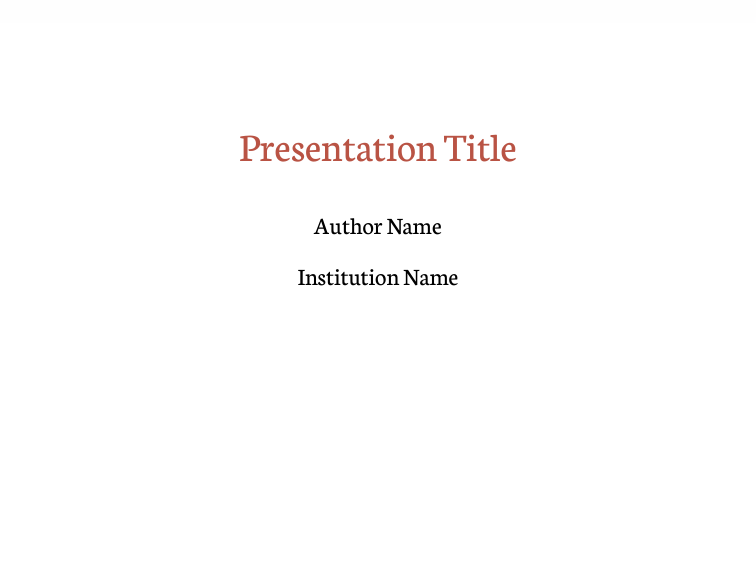
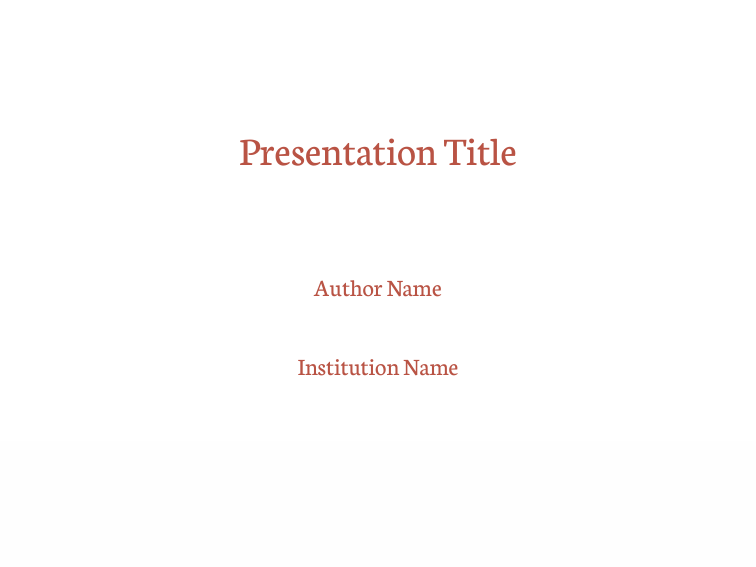
Fix title page: skyline image now visible on title slide
- Custom title page template in d-rose.cls with transparent bg
- Skyline placed after text via remember picture overlay (draws on top)
- Simplified main.tex (background image now handled by .cls)
- Regenerated 9-page preview PNGs

diff --git a/recipes/d-rose/main.tex b/recipes/d-rose/main.tex
@@ -11,20 +11,10 @@
 
 \begin{document}
 
-{%
-\usebackgroundtemplate{%
-  \IfFileExists{fig/hkskyline.png}{%
-    \begin{tikzpicture}[remember picture,overlay]
-      \node[anchor=south, yshift=-0.5cm] at (current page.south)
-        {\includegraphics[width=\paperwidth]{fig/hkskyline.png}};
-    \end{tikzpicture}%
-  }{}%
-}
 \begin{frame}[plain]
   \vspace{-1cm}
   \titlepage
 \end{frame}
-}
 
 \input{content/overview}
 \input{content/figures}